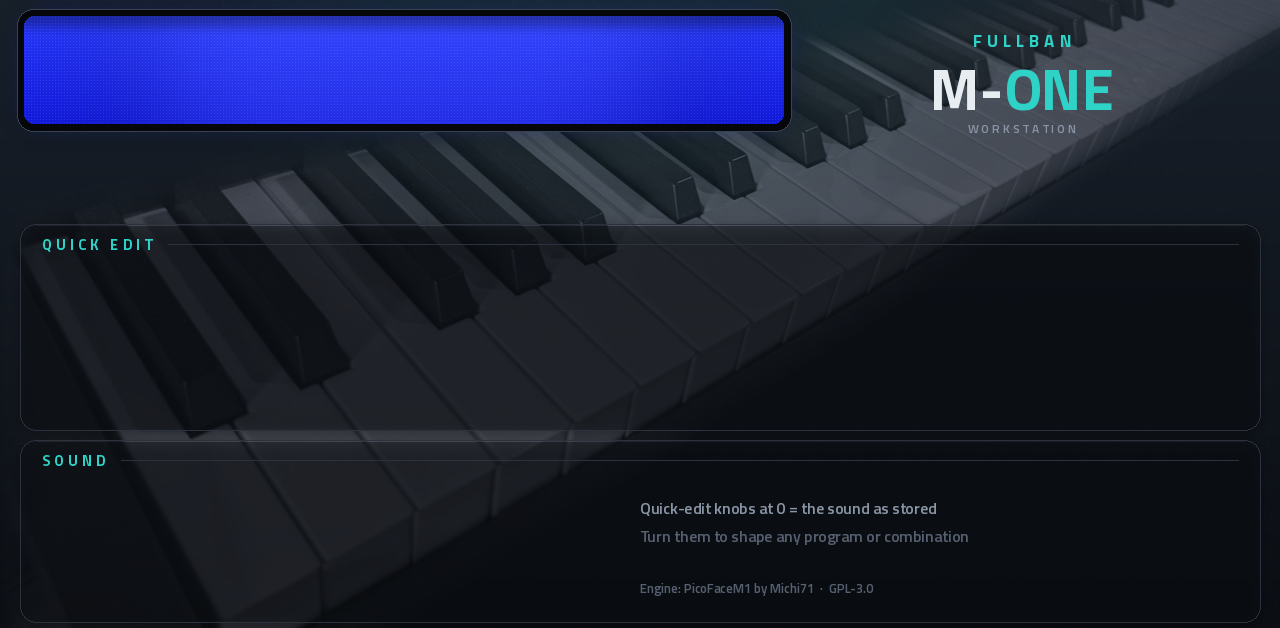
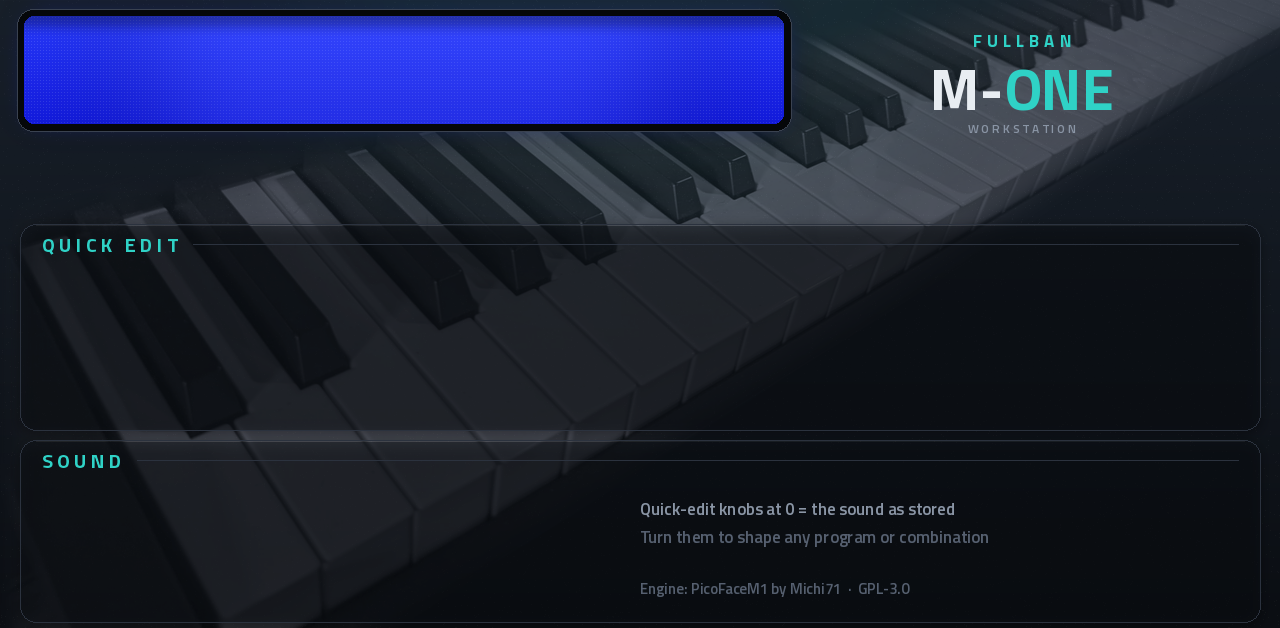
1.3.0zf: bigger text (knob names 20, captions 20, segment and tab labels 17; Reset unchanged)
Claude-Session: https://claude.ai/code/session_01MxA4UrXpDBJ4ZJPyAaEkuD

diff --git a/vst/skin.css b/vst/skin.css
@@ -1,9 +1,9 @@
 /* Fullban M-One: dark slate + Fullban aqua, an M1-style yellow-green backlit display. Colours/effects only:
  * positions and sizes stay the layout's (MPC places its live controls on them). */
 :root {
-  --title-size: 17px;
-  --label-size: 14px;
-  --seg-size: 13px;
+  --title-size: 22px;
+  --label-size: 19px;
+  --seg-size: 17px;
   --button-size: 13px;
   --radius: 10px;
   --sheen: 0.07;

diff --git a/vst/art/make_art.py b/vst/art/make_art.py
@@ -102,7 +102,7 @@ def panel(im, box, title=None):
     if title:
         x = box[0] + 22
         for ch in title:   # letter-spaced caption
-            d.text((x, box[1] + 20), ch, font=font(15), fill=AQUA, anchor="lm"); x += d.textlength(ch, font=font(15)) + 4
+            d.text((x, box[1] + 20), ch, font=font(20), fill=AQUA, anchor="lm"); x += d.textlength(ch, font=font(20)) + 4
         d.line([(x + 12, box[1] + 20), (box[2] - 22, box[1] + 20)], fill=LINE + (255,), width=1)
     im.alpha_composite(lay)
 
@@ -150,9 +150,9 @@ def page_play():
     panel(im, QUICK, "QUICK EDIT")
     panel(im, SOUND, "SOUND")
     d = ImageDraw.Draw(im)
-    d.text((640, 508), "Quick-edit knobs at 0 = the sound as stored", font=font(16, "SemiBold"), fill=DIM, anchor="lm")
-    d.text((640, 536), "Turn them to shape any program or combination", font=font(16, "SemiBold"), fill=FAINT, anchor="lm")
-    d.text((640, 588), "Engine: PicoFaceM1 by Michi71  ·  GPL-3.0", font=font(13, "SemiBold"), fill=FAINT, anchor="lm")
+    d.text((640, 508), "Quick-edit knobs at 0 = the sound as stored", font=font(17, "SemiBold"), fill=DIM, anchor="lm")
+    d.text((640, 536), "Turn them to shape any program or combination", font=font(17, "SemiBold"), fill=FAINT, anchor="lm")
+    d.text((640, 588), "Engine: PicoFaceM1 by Michi71  ·  GPL-3.0", font=font(15, "SemiBold"), fill=FAINT, anchor="lm")
     return im
 
 LIB_LCD = ((81, 70, 569, 120), (711, 70, 1199, 120))   # the Library author / bank displays (stepper text areas)

diff --git a/vst/skin_post.py b/vst/skin_post.py
@@ -14,7 +14,7 @@ for c in d["pageData"]["componentDefinitions"]["localComponentDefinitions"]:
         if data.get("type") == "Value" and ts:
             ts["colour"] = "ff2fd2c6"; ts["font"]["style"] = "Bold"; n += 1
         elif data.get("type") == "Name" and ts:
-            ts["colour"] = "ff8a95a5"; ts["font"]["height"] = 15.0; ts["font"]["style"] = "SemiBold"
+            ts["colour"] = "ff8a95a5"; ts["font"]["height"] = 20.0; ts["font"]["style"] = "SemiBold"
 if not n:
     raise SystemExit("skin_post: no knob Value labels found -- update skin_post.py")
 # The selected control (the one the data wheel and the +/- keys drive) gets a soft aqua highlight: MPC draws a control's
